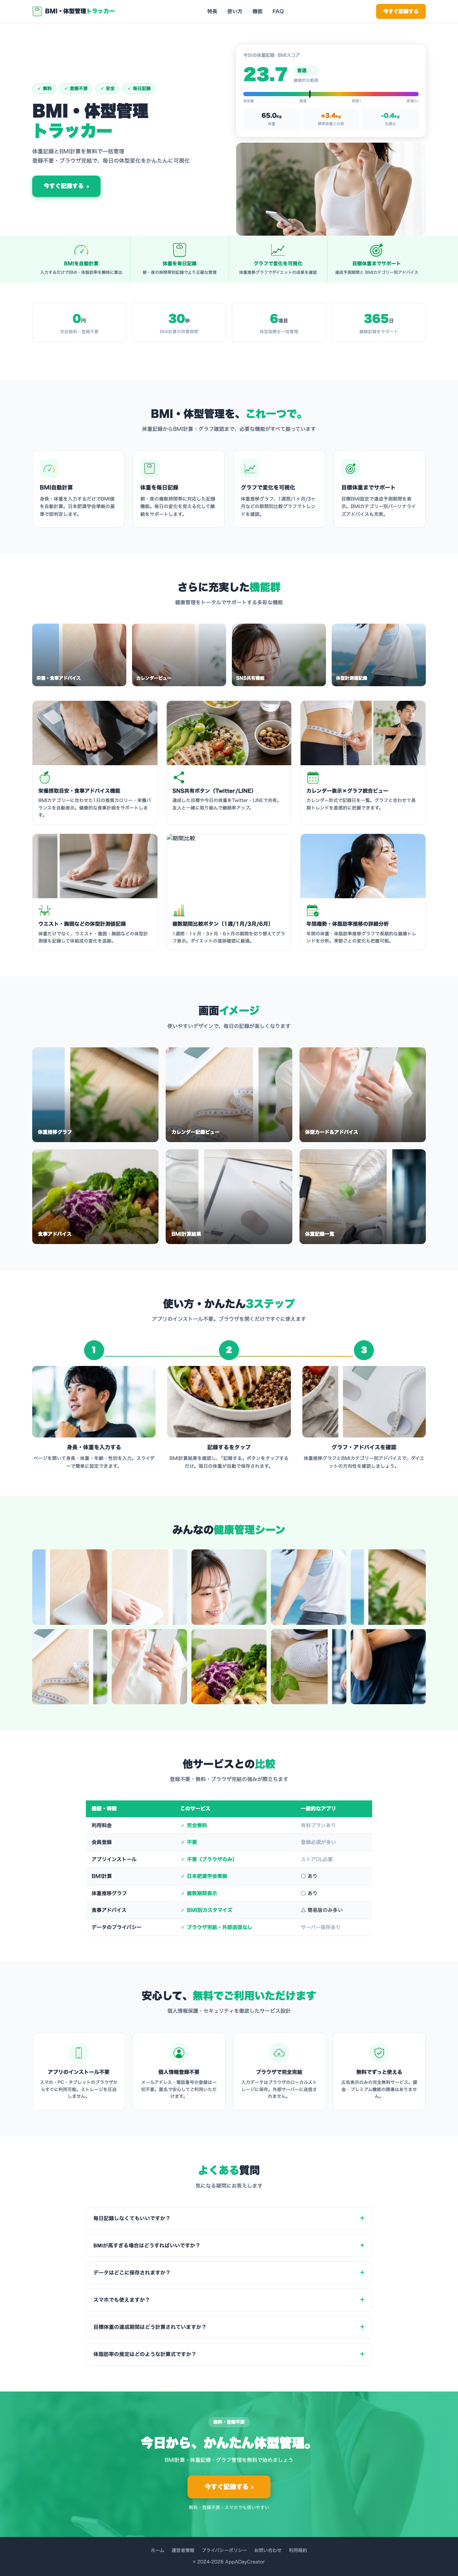
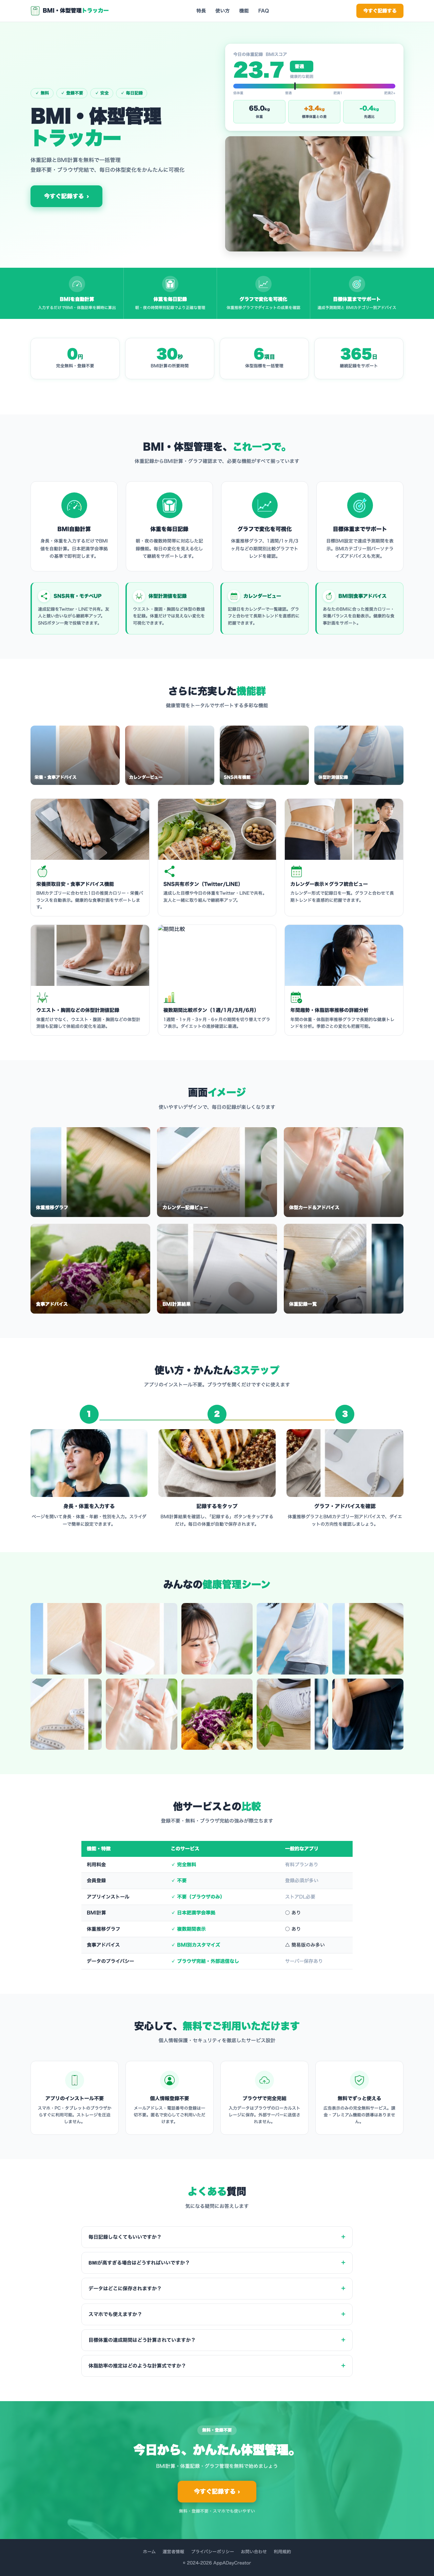
Refine: step7 pass1 compare-and-fix vs ChatGPT mockup

diff --git a/lp/index.html b/lp/index.html
@@ -54,7 +54,7 @@ body{font-family:'Hiragino Sans','Meiryo',sans-serif;color:var(--text-dark);line
 @media(max-width:768px){.lp-navlinks{display:none;}.lp-nav-inner{justify-content:space-between;}}
 
 /* ===== HERO ===== */
-.hero{padding:64px 24px 48px;background:linear-gradient(160deg,#f0fdf4 0%,#ecfdf5 30%,#ffffff 70%);}
+.hero{padding:64px 24px 48px;background:linear-gradient(160deg,#bbf7d0 0%,#d1fae5 25%,#ecfdf5 55%,#ffffff 85%);}
 .hero-inner{max-width:1100px;margin:0 auto;display:grid;grid-template-columns:1fr 1fr;gap:48px;align-items:center;}
 .hero-badges{display:flex;gap:8px;flex-wrap:wrap;margin-bottom:20px;}
 .hero-badge{background:var(--green-light);color:var(--green-dark);padding:4px 12px;border-radius:20px;font-size:0.78rem;font-weight:700;border:1px solid #a7f3d0;}
@@ -64,7 +64,7 @@ body{font-family:'Hiragino Sans','Meiryo',sans-serif;color:var(--text-dark);line
 .hero-cta{display:inline-flex;align-items:center;gap:8px;background:var(--green);color:#fff;padding:18px 40px;border-radius:12px;font-size:1.05rem;font-weight:700;text-decoration:none;transition:background .15s;box-shadow:0 6px 20px rgba(16,185,129,.4);}
 .hero-cta:hover{background:var(--green-dark);}
 .hero-cta-arrow{font-size:1.1rem;}
-.hero-right{position:relative;display:flex;flex-direction:column;gap:16px;}
+.hero-right{position:relative;display:flex;flex-direction:column;gap:16px;min-height:580px;}
 .hero-widget{background:#fff;border-radius:16px;box-shadow:0 8px 32px rgba(16,185,129,.18),0 2px 8px rgba(0,0,0,.08);padding:22px 24px;}
 .hero-widget-title{font-size:0.78rem;color:var(--text-light);margin-bottom:8px;font-weight:600;}
 .hero-bmi-row{display:flex;align-items:center;gap:16px;margin-bottom:12px;}
@@ -78,12 +78,12 @@ body{font-family:'Hiragino Sans','Meiryo',sans-serif;color:var(--text-dark);line
 .hero-stat-val.green{color:var(--green);}
 .hero-stat-val.amber{color:var(--amber-dark);}
 .hero-stat-lbl{font-size:0.65rem;color:var(--text-mid);margin-top:2px;font-weight:600;}
-.hero-photo{width:100%;height:340px;object-fit:cover;border-radius:16px;display:block;box-shadow:0 8px 24px rgba(0,0,0,.12);}
+.hero-photo{width:100%;height:420px;object-fit:cover;border-radius:16px;display:block;box-shadow:0 8px 24px rgba(0,0,0,.12);flex:1;}
 @media(max-width:768px){
   .hero-inner{grid-template-columns:1fr;gap:32px;}
   .hero{padding:48px 16px 40px;}
   .hero-h1{font-size:clamp(2rem,6vw,2.8rem);}
-  .hero-photo{height:260px;}
+  .hero-photo{height:300px;flex:none;}
 }
 
 /* ===== BENEFITS BAR ===== */
@@ -181,6 +181,11 @@ body{font-family:'Hiragino Sans','Meiryo',sans-serif;color:var(--text-dark);line
 .gallery-grid img{width:100%;aspect-ratio:1;object-fit:cover;border-radius:10px;display:block;}
 @media(max-width:768px){.gallery-grid{grid-template-columns:repeat(3,1fr);}}
 @media(max-width:480px){.gallery-grid{grid-template-columns:repeat(2,1fr);}}
+
+/* ===== SECTION GALLERY DARK ===== */
+.section-gallery-dark{background:var(--green);}
+.section-gallery-dark .section-title{color:#fff;}
+.section-gallery-dark .section-title span{color:#fff;}
 
 /* ===== FAQ ===== */
 .faq-list{max-width:800px;margin:0 auto;display:flex;flex-direction:column;gap:12px;}
@@ -494,7 +499,7 @@ body{font-family:'Hiragino Sans','Meiryo',sans-serif;color:var(--text-dark);line
 </section>
 
 <!-- ===== SCREEN IMAGES ===== -->
-<section class="section section-gray">
+<section class="section section-white">
   <div class="container">
     <h2 class="section-title">画面<span>イメージ</span></h2>
     <p class="section-sub">使いやすいデザインで、毎日の記録が楽しくなります</p>
@@ -528,7 +533,7 @@ body{font-family:'Hiragino Sans','Meiryo',sans-serif;color:var(--text-dark);line
 </section>
 
 <!-- ===== HOW-TO ===== -->
-<section class="section section-white" id="howto">
+<section class="section section-gray" id="howto">
   <div class="container">
     <h2 class="section-title">使い方・かんたん<span>3ステップ</span></h2>
     <p class="section-sub">アプリのインストール不要。ブラウザを開くだけですぐに使えます</p>
@@ -556,7 +561,7 @@ body{font-family:'Hiragino Sans','Meiryo',sans-serif;color:var(--text-dark);line
 </section>
 
 <!-- ===== GALLERY ===== -->
-<section class="section section-green">
+<section class="section section-gallery-dark">
   <div class="container">
     <h2 class="section-title" style="margin-bottom:32px;">みんなの<span>健康管理シーン</span></h2>
     <div class="gallery-grid">
@@ -575,7 +580,7 @@ body{font-family:'Hiragino Sans','Meiryo',sans-serif;color:var(--text-dark);line
 </section>
 
 <!-- ===== COMPARISON TABLE ===== -->
-<section class="section section-white">
+<section class="section section-green">
   <div class="container">
     <h2 class="section-title">他サービスとの<span>比較</span></h2>
     <p class="section-sub">登録不要・無料・ブラウザ完結の強みが際立ちます</p>
@@ -603,7 +608,7 @@ body{font-family:'Hiragino Sans','Meiryo',sans-serif;color:var(--text-dark);line
 </section>
 
 <!-- ===== TRUST ===== -->
-<section class="section section-gray" id="trust">
+<section class="section section-white" id="trust">
   <div class="container">
     <h2 class="section-title">安心して、<span>無料でご利用いただけます</span></h2>
     <p class="section-sub">個人情報保護・セキュリティを徹底したサービス設計</p>
@@ -633,7 +638,7 @@ body{font-family:'Hiragino Sans','Meiryo',sans-serif;color:var(--text-dark);line
 </section>
 
 <!-- ===== FAQ ===== -->
-<section class="section section-white" id="faq">
+<section class="section section-green" id="faq">
   <div class="container">
     <h2 class="section-title"><span>よくある</span>質問</h2>
     <p class="section-sub">気になる疑問にお答えします</p>